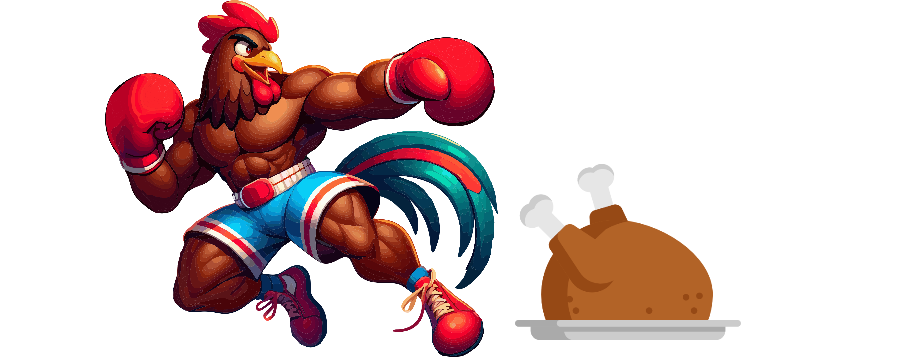
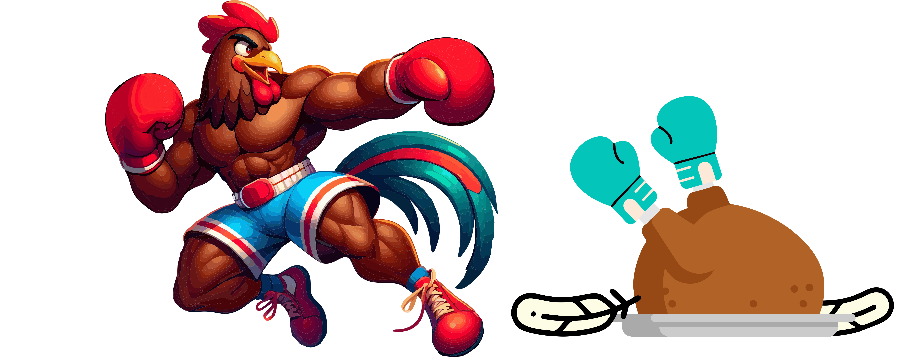
:sparkles: add rooster animation class

Changed region(s): [[0.56, 0.2444, 0.9956, 0.9472]]

diff --git a/src/scripts/classes/RoosterAnimation.js b/src/scripts/classes/RoosterAnimation.js
@@ -1,0 +1,78 @@
+import { elementExists, sleep } from "../utils.js";
+
+class RoosterAnimation {
+  /**
+   * @type { HTMLDivElement  }
+   */
+  #fightAnimationContainer;
+  /**
+   * @type { HTMLImageElement  }
+   */
+  #fightCloudEl;
+  /**
+   * @type { NodeListOf<HTMLImageElement>  }
+   */
+  #fightRoosters;
+
+  /**
+   * @type { NodeListOf<HTMLImageElement>  }
+   */
+  #winnerRoosterImgEl;
+
+  constructor() {
+    this.#fightCloudEl = document.querySelector("[data-rooster-fight-cloud]");
+    this.#fightRoosters = document.querySelectorAll(
+      "[data-rooster-fight-rooster]"
+    );
+    this.#winnerRoosterImgEl = document.querySelectorAll(
+      "[data-rooster-winner]"
+    );
+    this.#fightAnimationContainer = document.querySelector(
+      "[data-rooster-fight-container]"
+    );
+
+    const allElementsExists = [
+      this.#fightAnimationContainer,
+      this.#fightCloudEl,
+      ...Array.from(this.#fightRoosters),
+      ...Array.from(this.#winnerRoosterImgEl),
+    ].every((el) => elementExists(el));
+
+    if (!allElementsExists)
+      throw new Error(
+        "Elements not initialized correctly! Verify if elements exists in Document. "
+      );
+  }
+
+  async roosterFight(winnedRooster) {
+    this.#fightAnimationContainer.classList.remove("hidden");
+    this.showFightCloud(true);
+    this.#fightRoosters.forEach((rooster) => {
+      const roosterColor = rooster.dataset.roosterFightRooster;
+      if (!roosterColor) throw new Error("Unknown rooster color!");
+      this.addRoosterFightAnimation(rooster, roosterColor);
+    });
+    await sleep(12 * 1000); // 12 segundos
+    this.#winnerRoosterImgEl.forEach((winnerRoosterEl) => {
+      const roosterWinnerColor = winnerRoosterEl.dataset.roosterWinner;
+      if (!roosterWinnerColor) throw new Error("Unknown rooster winner color!");
+      if (roosterWinnerColor == winnedRooster) {
+        winnerRoosterEl.classList.remove("hidden");
+      }
+    });
+    this.showFightCloud(false);
+  }
+
+  showFightCloud(shouldShow) {
+    this.#fightCloudEl.classList.toggle("cloud-fight", shouldShow);
+    this.#fightCloudEl.classList.toggle("hidden", !shouldShow);
+  }
+
+  addRoosterFightAnimation(roosterEl, color) {
+    const roosterAnimationClassName = `rooster-${color}-fight`;
+    roosterEl.classList.add(roosterAnimationClassName);
+    roosterEl.classList.remove("hidden");
+  }
+}
+
+export { RoosterAnimation };

diff --git a/src/index.html b/src/index.html
@@ -149,27 +149,42 @@
             </div>
 
             <!-- animation container -->
-            <div class="absolute w-full h-full bg-red-500 top-0 left-0">
+            <div
+              class="absolute w-full h-full top-0 left-0 hidden"
+              data-rooster-fight-container
+            >
               <img
                 src="./assets/rooster-img/blue.png"
-                class="absolute w-40 h-40 object-contain rooster-red-fight left-1 bottom-2"
+                data-rooster-fight-rooster="blue"
+                class="absolute w-40 h-40 object-contain left-1 bottom-2 hidden"
                 alt=""
               />
+              <!-- classe: rooster-red-fight -->
               <img
                 src="./assets/rooster-img/red.png"
-                class="absolute w-40 h-40 object-contain flip-horizontally right-1 bottom-2 rooster-blue-fight"
+                data-rooster-fight-rooster="red"
+                class="absolute w-40 h-40 object-contain flip-horizontally right-1 bottom-2 hidden"
                 alt=""
+              />
+              <!-- classe: rooster-blue-fight -->
+              <img
+                src="./assets/cloud-fight.gif"
+                data-rooster-fight-cloud
+                alt=""
+                class="absolute w-80 min-h-80 object-contain left-1/4 -bottom-16 hidden"
               />
               <img
-                src="./assets/fight.gif"
-                alt=""
-                class="absolute w-80 min-h-80 object-contain left-1/4 -bottom-16 cloud-fight"
-              />
-              <!-- <img
                 src="./assets/rooster-img/red-win.png"
-                alt=""
-                class="absolute h-40 object-contain left-[20%] bottom-2"
-              /> -->
+                alt="O Galo Vermelho ganhou a luta"
+                data-rooster-winner="red"
+                class="absolute h-40 object-contain left-[20%] bottom-2 hidden"
+              />
+              <img
+                src="./assets/rooster-img/blue-win.png"
+                data-rooster-winner="blue"
+                alt="O Galo Azul ganhou a luta"
+                class="absolute h-40 object-contain left-[20%] bottom-2 hidden"
+              />
             </div>
           </div>
           <!-- botão e aposta -->

diff --git a/src/styles/output.css b/src/styles/output.css
@@ -604,10 +604,6 @@ video {
   bottom: -4rem;
 }
 
-.-bottom-2 {
-  bottom: -0.5rem;
-}
-
 .-left-\[18px\] {
   left: -18px;
 }
@@ -624,12 +620,12 @@ video {
   left: 0.25rem;
 }
 
-.left-1\/3 {
-  left: 33.333333%;
-}
-
 .left-1\/4 {
   left: 25%;
+}
+
+.left-\[20\%\] {
+  left: 20%;
 }
 
 .right-1 {
@@ -638,30 +634,6 @@ video {
 
 .top-0 {
   top: 0px;
-}
-
-.left-2\/4 {
-  left: 50%;
-}
-
-.-left-2\/4 {
-  left: -50%;
-}
-
-.left-3\/4 {
-  left: 75%;
-}
-
-.left-1\/2 {
-  left: 50%;
-}
-
-.left-\[40\%\] {
-  left: 40%;
-}
-
-.left-\[20\%\] {
-  left: 20%;
 }
 
 .col-span-2 {
@@ -918,11 +890,6 @@ video {
 .bg-gray-950 {
   --tw-bg-opacity: 1;
   background-color: rgb(3 7 18 / var(--tw-bg-opacity));
-}
-
-.bg-red-500 {
-  --tw-bg-opacity: 1;
-  background-color: rgb(239 68 68 / var(--tw-bg-opacity));
 }
 
 .bg-red-800\/30 {
@@ -1231,7 +1198,7 @@ input[type="number"] {
   background-color: rgb(29 78 216 / var(--tw-bg-opacity));
 }
 
-@keyframes blueRoosterFight {
+@keyframes redRoosterFight {
   0% {
     right: 4px;
   }
@@ -1247,7 +1214,7 @@ input[type="number"] {
   }
 }
 
-@keyframes redRoosterFight {
+@keyframes blueRoosterFight {
   0% {
     left: 4px;
   }
@@ -1263,12 +1230,12 @@ input[type="number"] {
   }
 }
 
-.rooster-blue-fight {
-  animation: blueRoosterFight 0.8s 2s ease-in forwards;
+.rooster-red-fight {
+  animation: redRoosterFight 0.8s 5s ease-in forwards;
 }
 
-.rooster-red-fight {
-  animation: redRoosterFight 0.8s 2s ease-in forwards;
+.rooster-blue-fight {
+  animation: blueRoosterFight 0.8s 5s ease-in forwards;
 }
 
 @keyframes cloudFightAppear {
@@ -1285,7 +1252,7 @@ input[type="number"] {
 
 .cloud-fight {
   visibility: hidden;
-  animation: cloudFightAppear 0.1s 2.8s linear forwards;
+  animation: cloudFightAppear 0.1s 5.8s linear forwards;
 }
 
 .hover\:scale-105:hover {

diff --git a/src/styles/input.css b/src/styles/input.css
@@ -66,7 +66,7 @@ input[type="number"] {
   @apply bg-blue-600 hover:bg-blue-700;
 }
 
-@keyframes blueRoosterFight {
+@keyframes redRoosterFight {
   0% {
     right: 4px;
   }
@@ -79,7 +79,7 @@ input[type="number"] {
     display: none;
   }
 }
-@keyframes redRoosterFight {
+@keyframes blueRoosterFight {
   0% {
     left: 4px;
   }
@@ -92,12 +92,12 @@ input[type="number"] {
     display: none;
   }
 }
-.rooster-blue-fight {
-  animation: blueRoosterFight 0.8s 2s ease-in forwards;
+.rooster-red-fight {
+  animation: redRoosterFight 0.8s 5s ease-in forwards;
 }
 
-.rooster-red-fight {
-  animation: redRoosterFight 0.8s 2s ease-in forwards;
+.rooster-blue-fight {
+  animation: blueRoosterFight 0.8s 5s ease-in forwards;
 }
 
 @keyframes cloudFightAppear {
@@ -113,5 +113,5 @@ input[type="number"] {
 
 .cloud-fight {
   visibility: hidden;
-  animation: cloudFightAppear 0.1s 2.8s linear forwards;
+  animation: cloudFightAppear 0.1s 5.8s linear forwards;
 }

diff --git a/src/scripts/main-script.js b/src/scripts/main-script.js
@@ -1,3 +1,11 @@
+import { RoosterAnimation } from "./classes/RoosterAnimation.js";
+
+const roosterAnimation = new RoosterAnimation();
+
+roosterAnimation.roosterFight("blue");
+
+// ------------------------------------[ SCRIPT DO CHECKBOX DAS GALINHAS ]------------------------------------
+
 const $roostersContainerEls = document.querySelectorAll("[data-rooster]");
 const $betButtonEl = document.querySelector("[data-bet-button]");
 const $betButtonDescriptionEl = document.querySelector(
